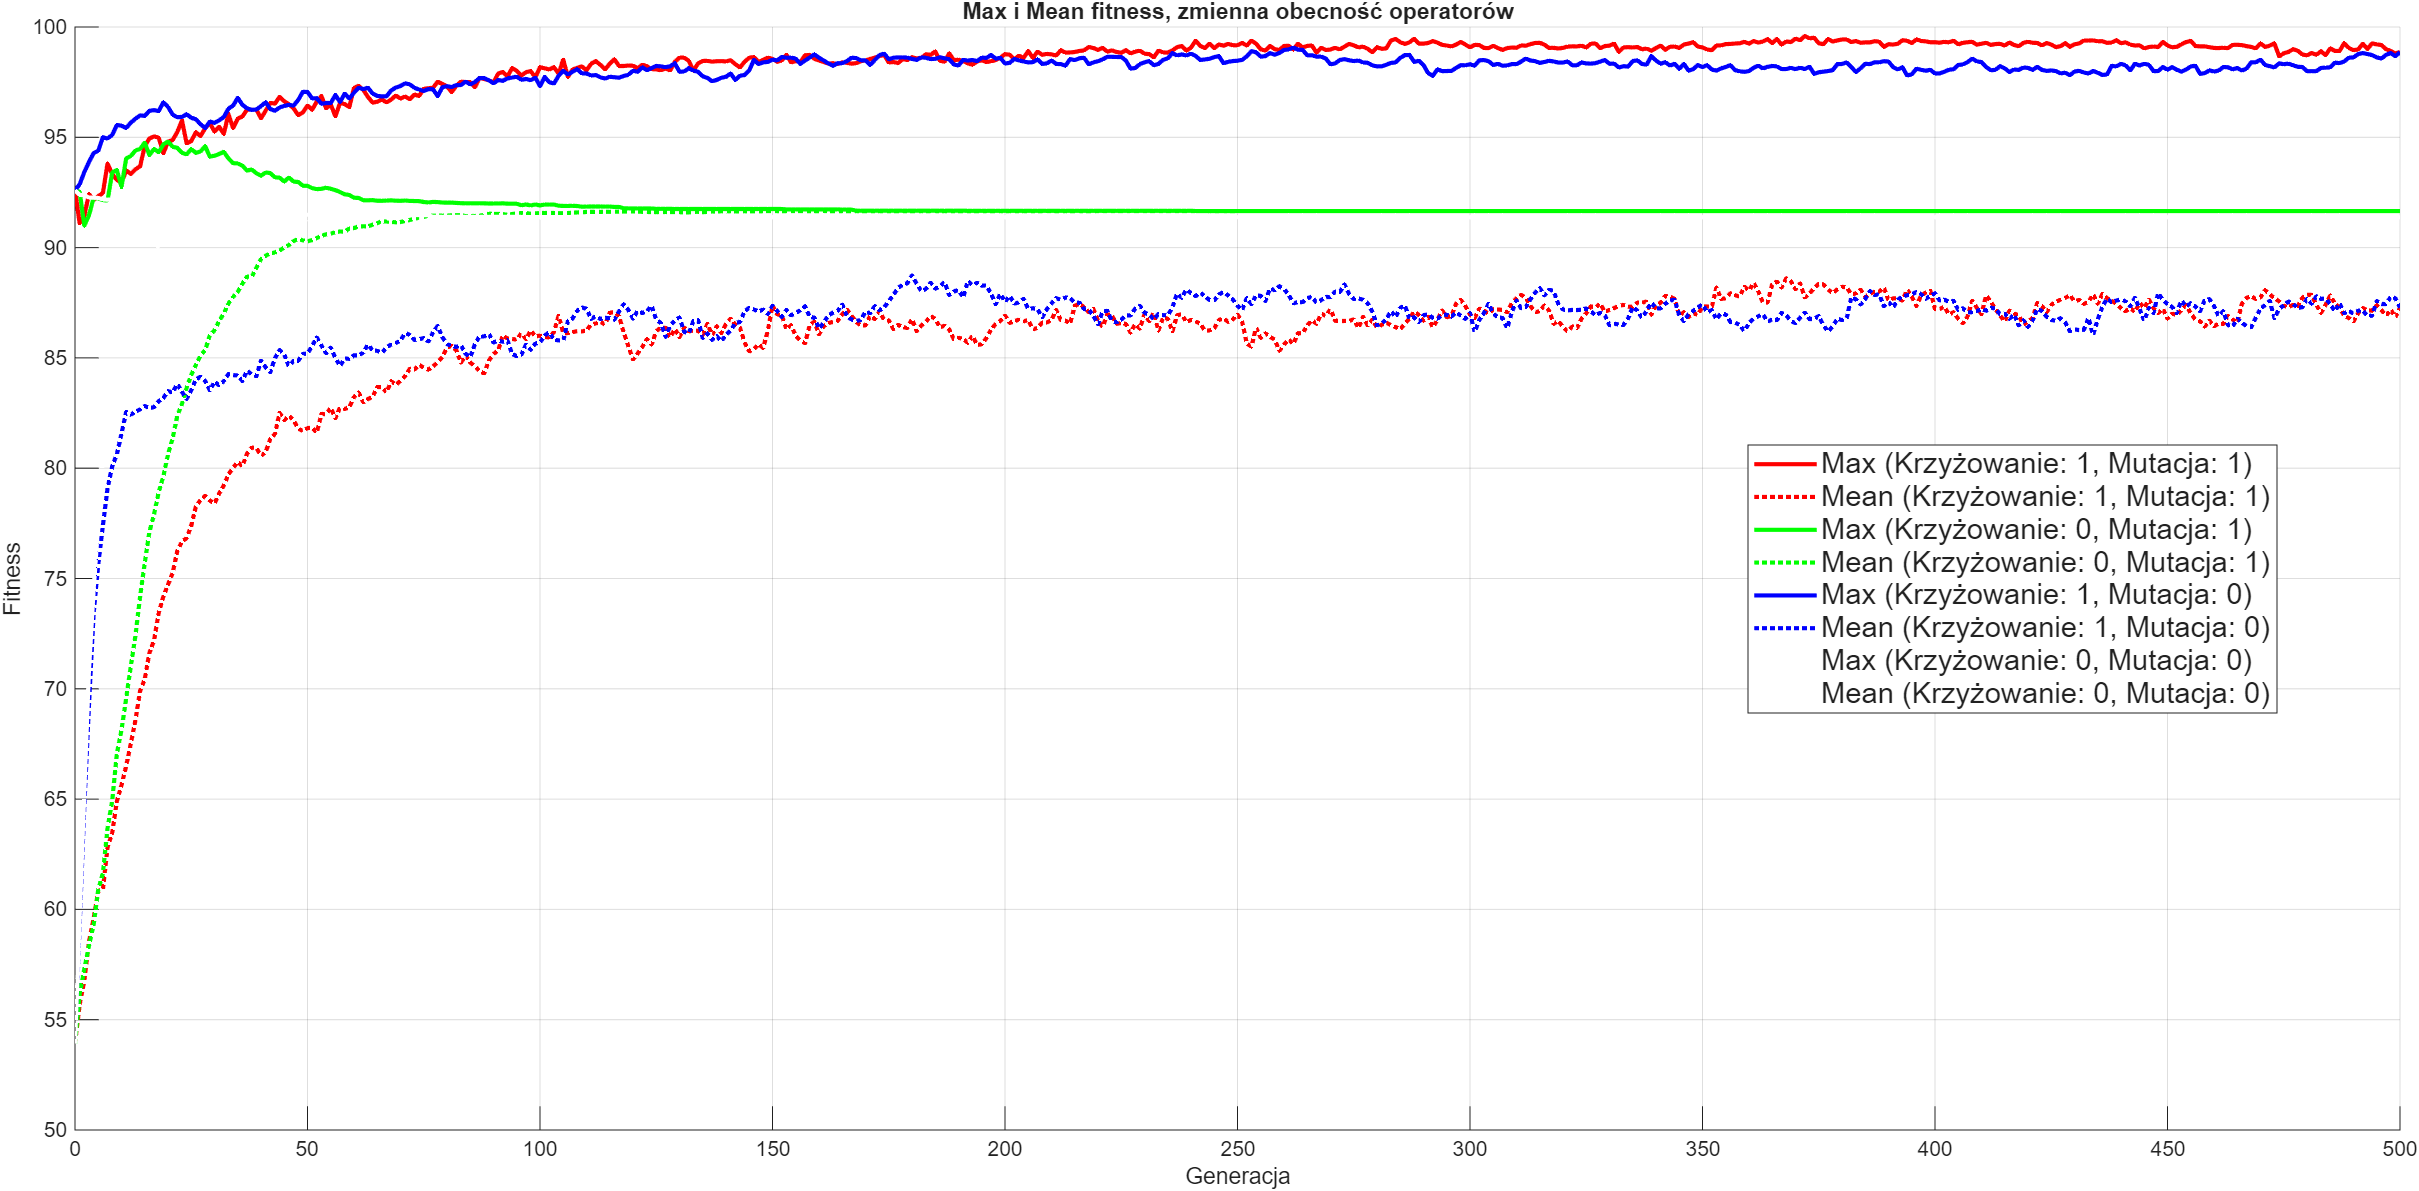
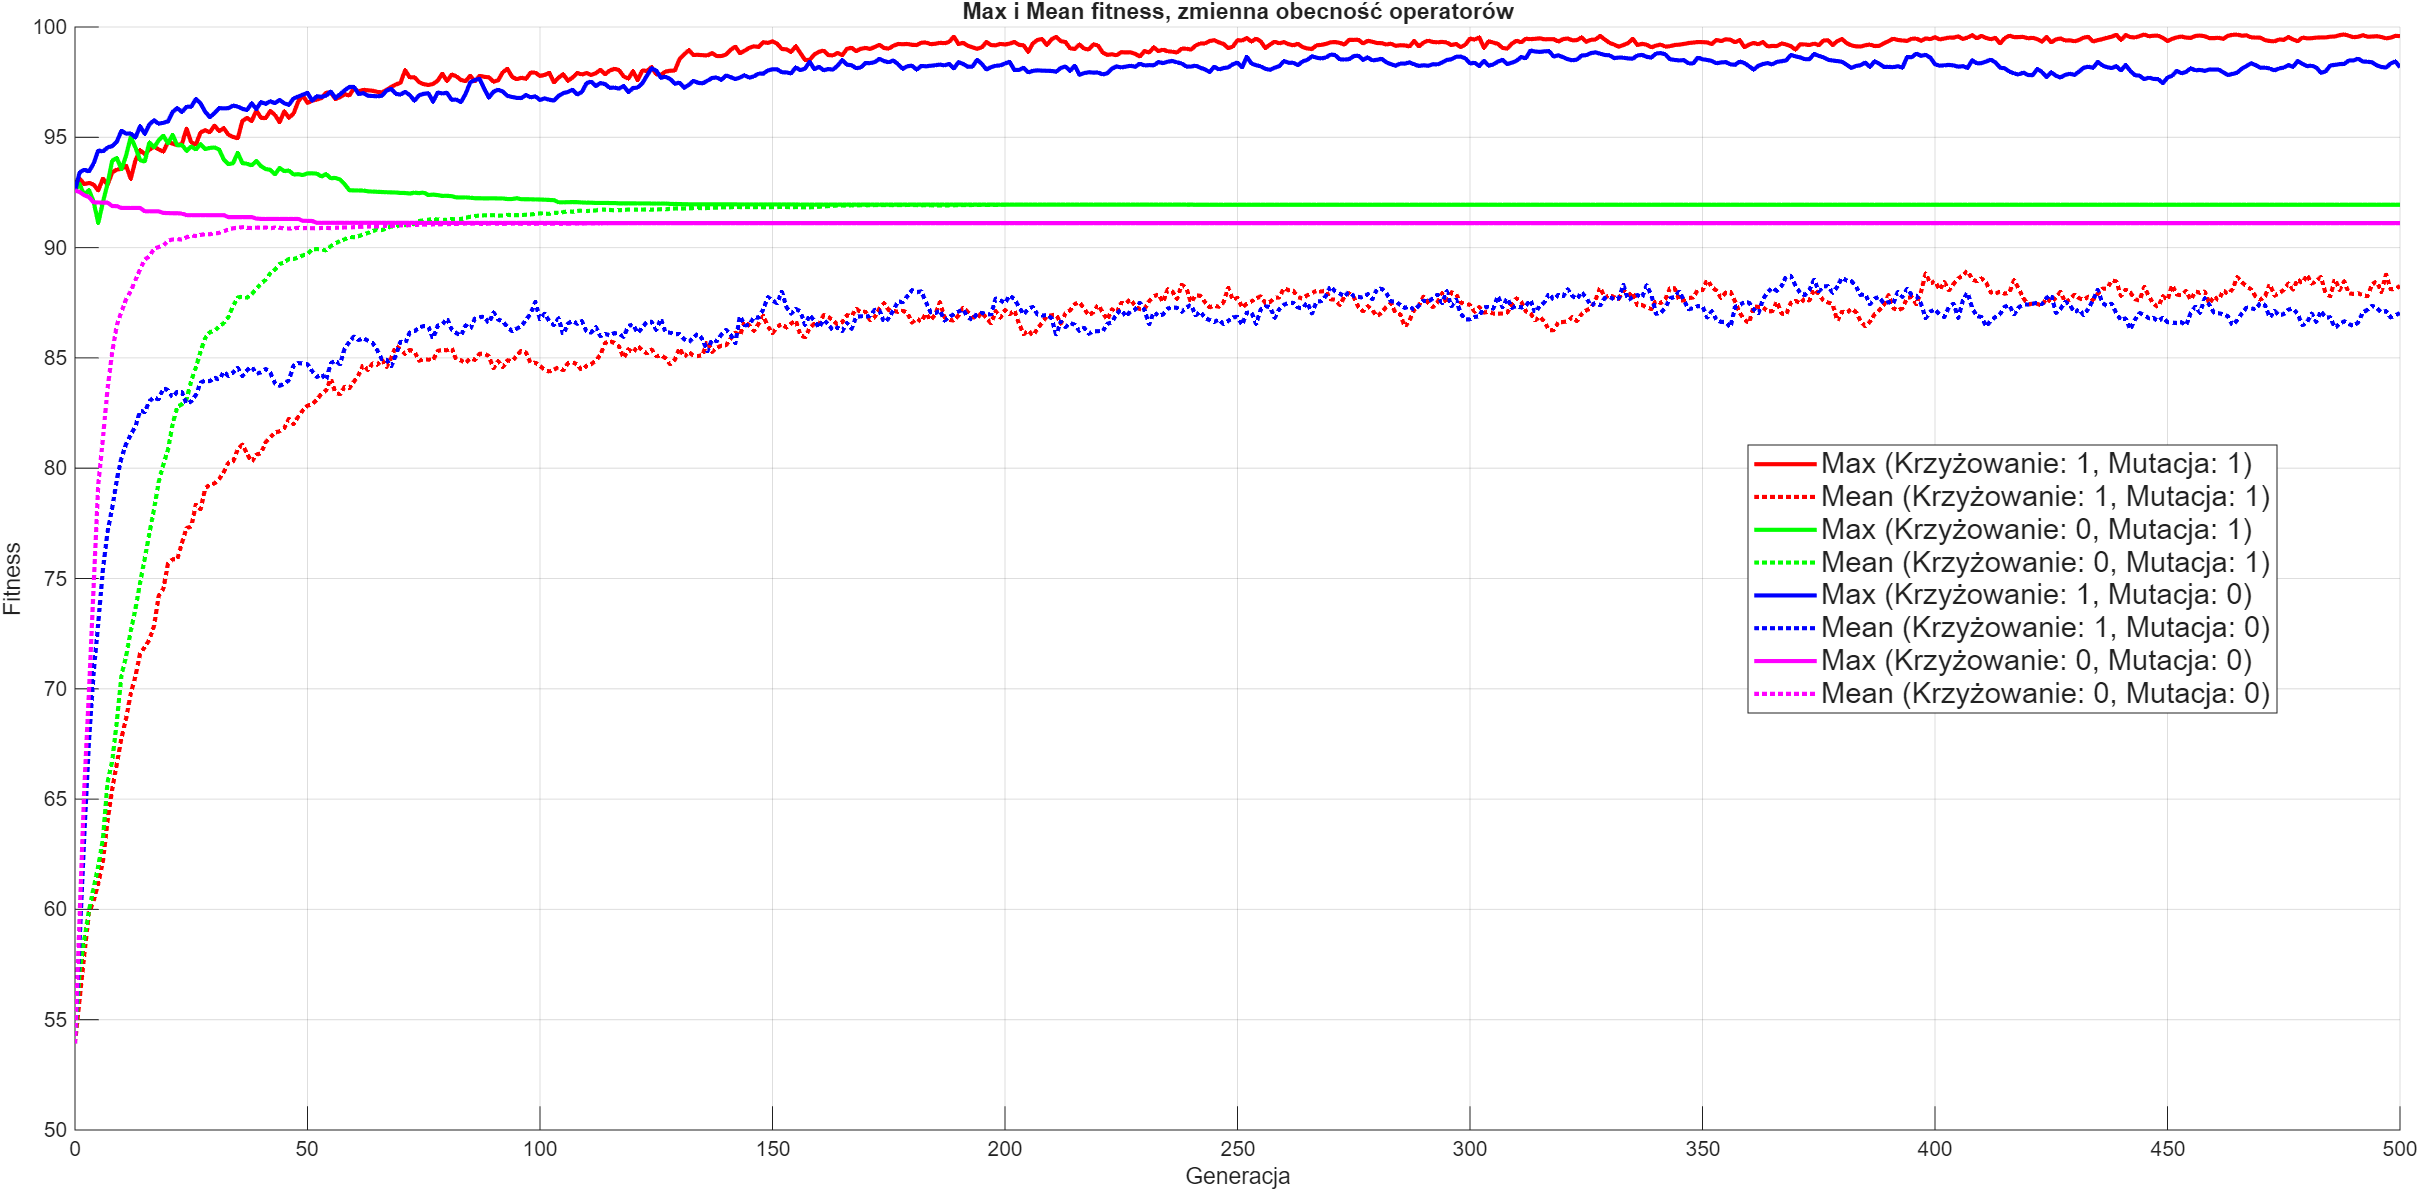
Added case with initial zero valued population

Changed region(s): [[0.031, 0.0311, 0.9921, 0.4039], [0.031, 0.3417, 0.093, 0.8077]]

diff --git a/GA_badanie.m b/GA_badanie.m
@@ -4,11 +4,11 @@
 % Inicjaliacja parametrów 
 
 m = 16; % Liczba osobników
-sub_genomes = [20,20]; % Długość poszczególnych podciągów (kolejnych zmiennych reprezentowanych przez genom)
+sub_genomes = [10,10]; % Długość poszczególnych podciągów (kolejnych zmiennych reprezentowanych przez genom)
 l = sum(sub_genomes);
 pc = 0.7; % prawdopodobieństwo krzyżowania
 pm = 0.01; % Prawdopodobieństwo mutacji bitu
-lg = 200; % Liczba generacji
+lg = 100; % Liczba generacji
 low = 0;
 high = 10;
 
@@ -22,6 +22,7 @@ ga_params.l = l;
 ga_params.m = m;
 ga_params.mutate = true; 
 ga_params.crossover = true;
+ga_params.population_zeros = false;
 
 % Funckje przystosowania
 fit_fun = @(x) x + sin(3 + cos(5 * x)) + 0.8;
@@ -29,10 +30,6 @@ fit_fun_2 = @(x1,x2) ((25 - (x1 - 5)^2 ) * cos(2 * (x1 - 5))) + ((25 - (x2 - 5)^
 fit_fun_2_m = @(M) ((25 - (M(:,1) - 5).^2 ) .* cos(2 .* (M(:,1) - 5))) + ((25 - (M(:,2) - 5).^2) .* cos(2 .* (M(:,2) - 5))) + 50;
 ga_params.fit_fun_2_m = fit_fun_2_m;
 fit_fun_2_mesh = @(x1,x2) ((25 - (x1 - 5).^2 ) .* cos(2 .* (x1 - 5))) + ((25 - (x2 - 5).^2) .* cos(2 .* (x2 - 5))) + 50;
-
-% Inicjalizacja populacji początkowej macierz binarna, jednakowa populacja początkowa dla każdej
-% iteracji algorytmu
-
 
 % Rysowaie przestrzeni rozwiązań
 % X1 = linspace(0,10,100);
@@ -48,9 +45,10 @@ m_values = [10, 20, 40];
 pc_values = [0.25, 0.5, 0.75, 1];
 pm_values = [0.01, 0.05, 0.001];
 
-num_runs = 30;
-colors = ["r", "g", "b", "w"];
+num_runs = 15;
+colors = ["r", "g", "b", "m"];
 
+% Zmienna ilość osobników
 figure;
 hold on;
 
@@ -78,6 +76,7 @@ legend('show', 'Location', 'best', 'FontSize', 14);
 grid on;
 hold off;
 
+% Zmienne prawdopodobieństwo krzyżowania
 figure;
 hold on;
 
@@ -99,12 +98,14 @@ for idx = 1:length(pc_values)
     plot(x, avg_mean_fit, ':', Color=colors(idx), LineWidth=2, DisplayName=sprintf("Mean (pc = %f)", pc_values(idx)));
 end
 
-title("Max i Mean fitness, zmienne prawdopodobieństwo krzyżowania.");
+title("Max i Mean fitness, zmienne pc, m = 40, pm = 0.01");
 xlabel("Generacja");
 ylabel("Fitness");
 legend('show', 'Location', 'best', 'FontSize', 14);
 grid on;
 hold off;
+
+% Zmienne prawdopodobieństwo mutacji
 
 figure;
 hold on;
@@ -139,6 +140,8 @@ ga_params.m = 40;
 ga_params.pc = 0.5;
 ga_params.pm = 0.01;
 
+% Wpływ obecności operatorów na algorytm, losowa populacja początkowa
+
 %Pierwsza kolumna: Krzyżowanie
 %Druga kolumna: Mutacja
 combinations = [true, true; false, true; true, false; false, false];
@@ -172,6 +175,37 @@ legend('show', 'Location', 'best', 'FontSize', 14);
 grid on;
 hold off;
 
+% Wpływ obecności operatorów na algorytm, zerowa populacja początkowa
+ga_params.population_zeros = true;
+
+figure;
+hold on;
+
+for idx = 1:length(combinations)
+
+    ga_params.crossover = combinations(idx, 1);
+    ga_params.mutate = combinations(idx, 2);
+
+    for run = 1:num_runs
+        [current_max, current_mean] = ga_main_loop(ga_params);
+        all_max_runs(run, :) = current_max;
+        all_mean_runs(run, :) = current_mean;
+    end
+
+    avg_max_fit = mean(all_max_runs, 1);
+    avg_mean_fit = mean(all_mean_runs, 1);
+
+    x = 0:ga_params.lg;
+    plot(x, avg_max_fit, Color=colors(idx), LineWidth=2, DisplayName=sprintf("Max (Krzyżowanie: %d, Mutacja: %d)", combinations(idx, 1), combinations(idx,2)));
+    plot(x, avg_mean_fit, ':', Color=colors(idx), LineWidth=2, DisplayName=sprintf("Mean (Krzyżowanie: %d, Mutacja: %d)", combinations(idx, 1), combinations(idx,2)));
+end
+
+title("Max i Mean fitness, zmienna obecność operatorów, zerowa populacja początkowa");
+xlabel("Generacja");
+ylabel("Fitness");
+legend('show', 'Location', 'best', 'FontSize', 14);
+grid on;
+hold off;
 
 % Dekodowanie populacji, konwersja wektorów binarnych do wektora liczb dziesiętnych, przeskalowanych do przedziału [low,high]
 function xr_vector = decode_population(binary_population, low, high)
@@ -323,7 +357,11 @@ end
 % Przyjmuje strukturę z parametrami aglorytmu GA
 function [max_fit_values, mean_fit_values] = ga_main_loop(ga_params)
 
-    Pi = create_initial_population(ga_params.m, ga_params.l);
+    if(ga_params.population_zeros)
+        Pi = zeros(ga_params.m, ga_params.l);
+    else
+        Pi = create_initial_population(ga_params.m, ga_params.l);
+    end
     low = ga_params.low;
     high = ga_params.high;
     sub_genomes = ga_params.sub_genomes;
